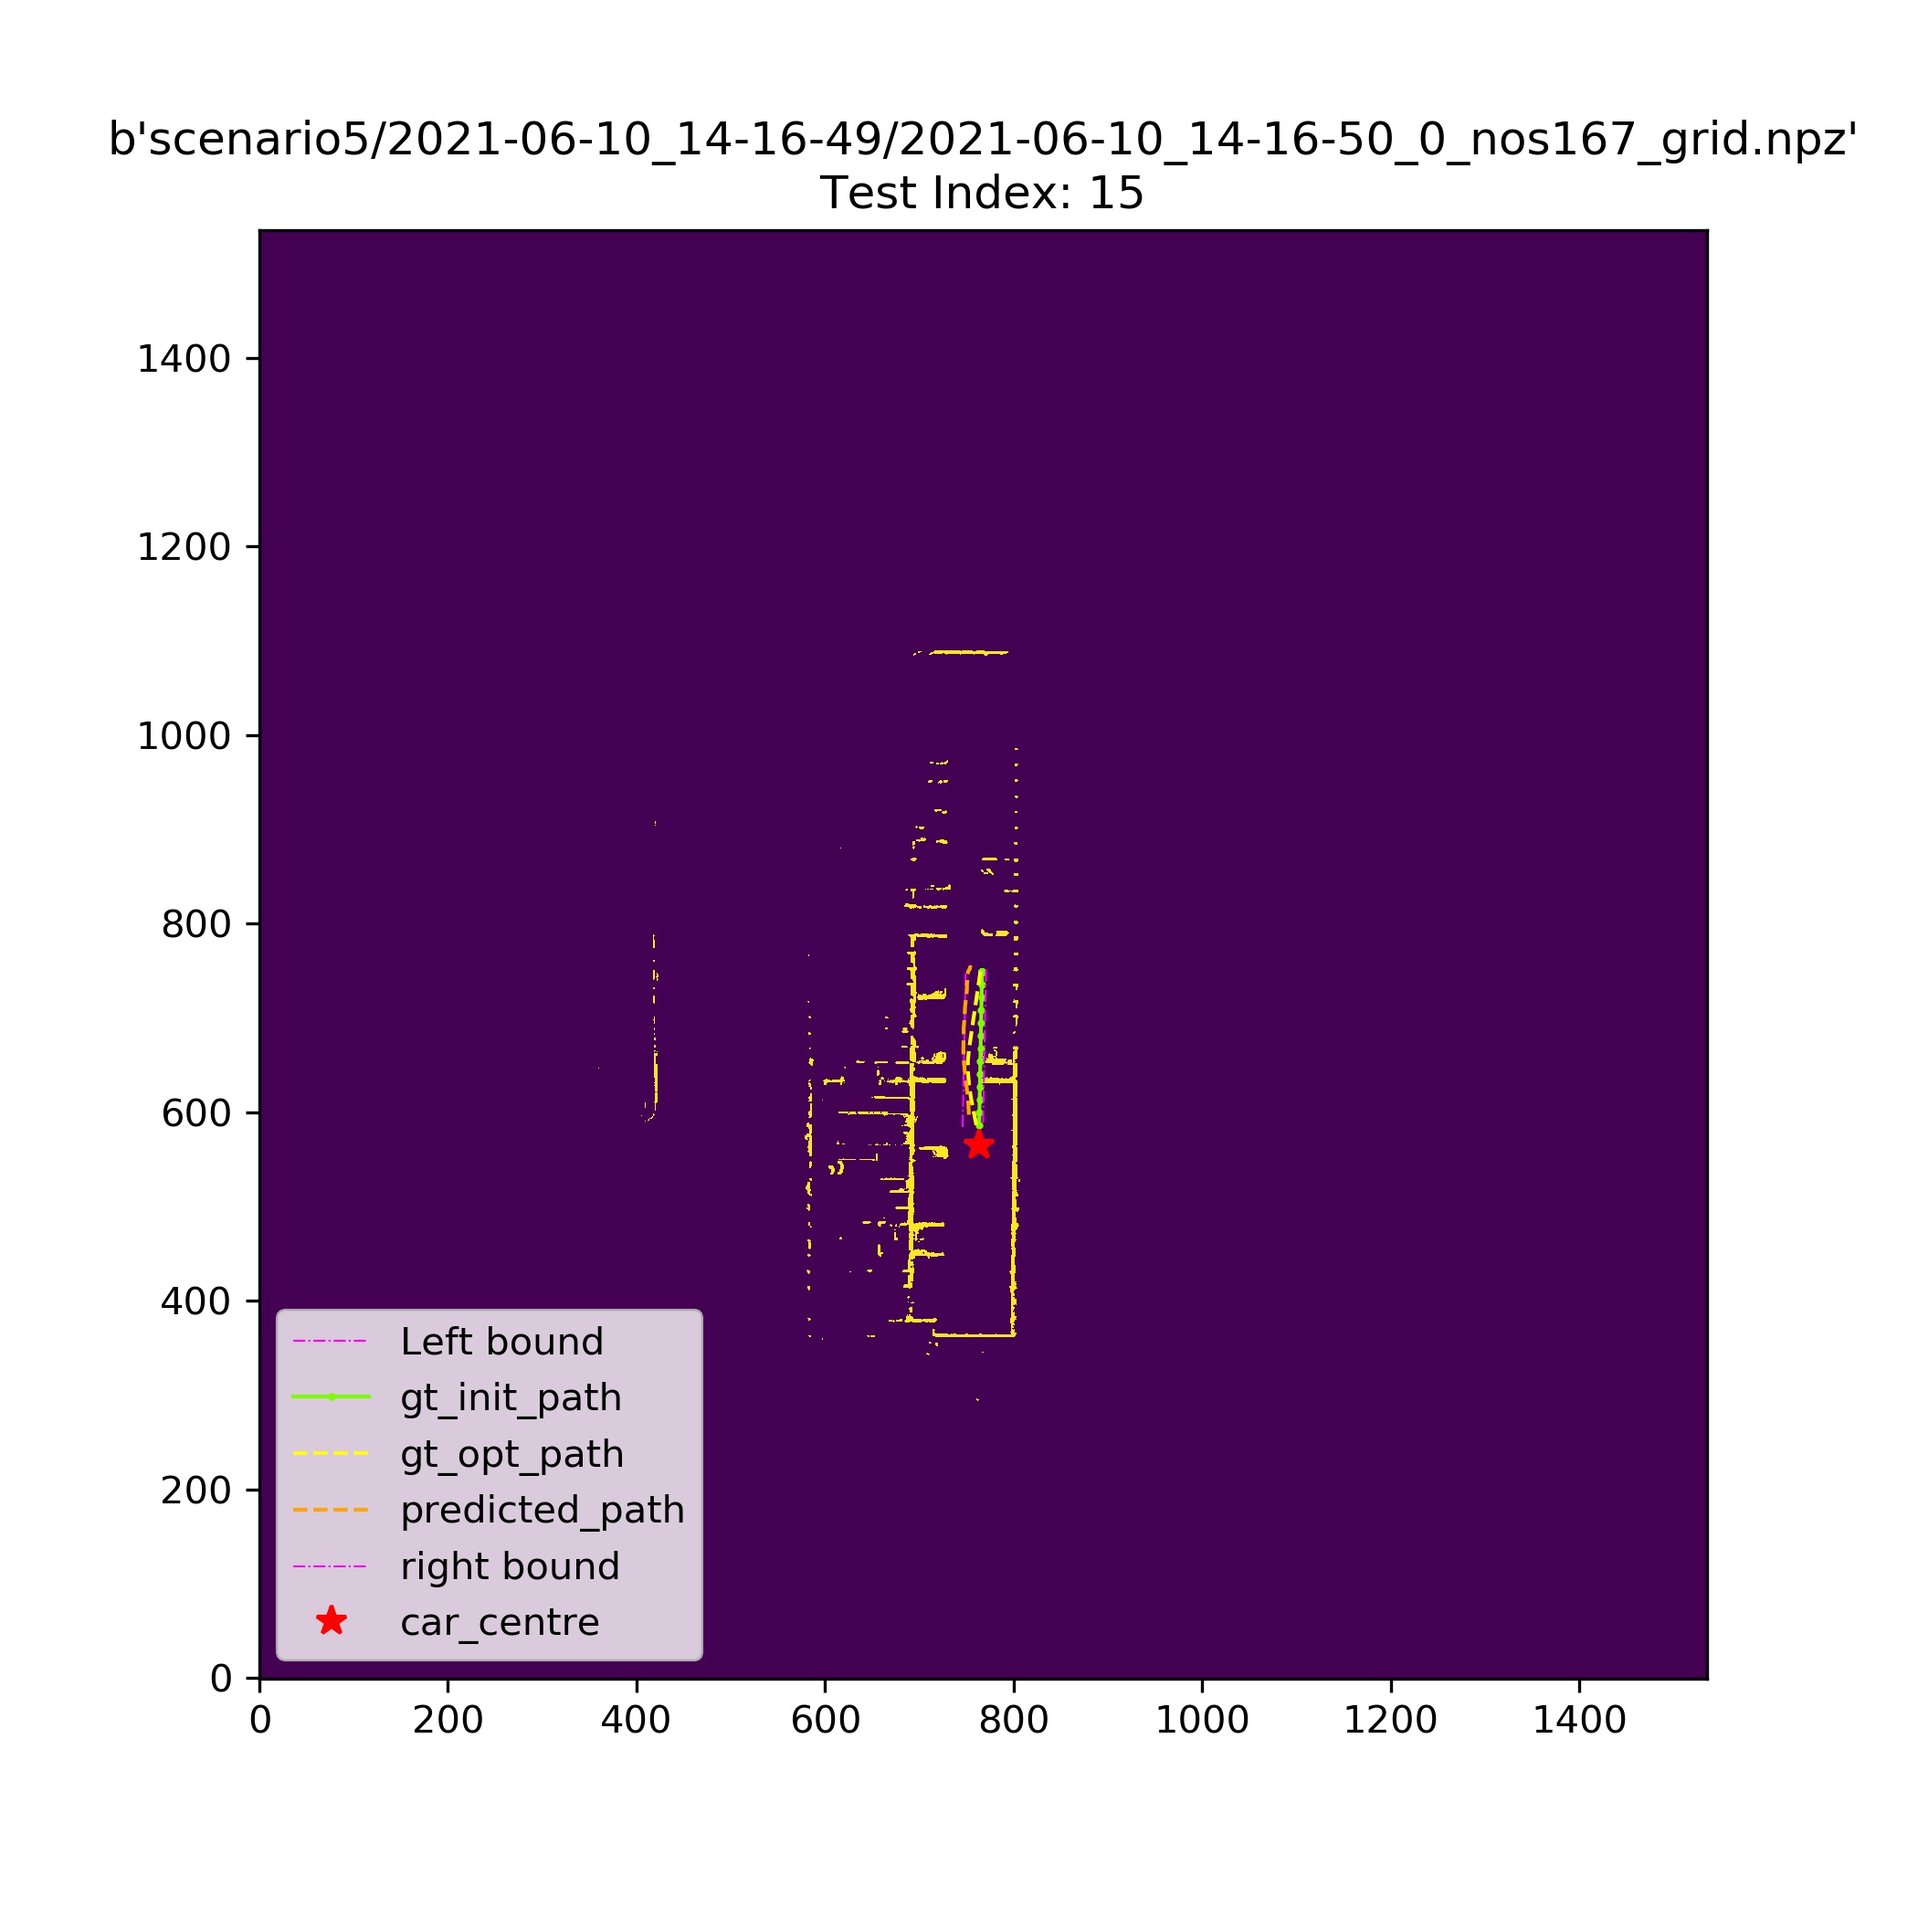
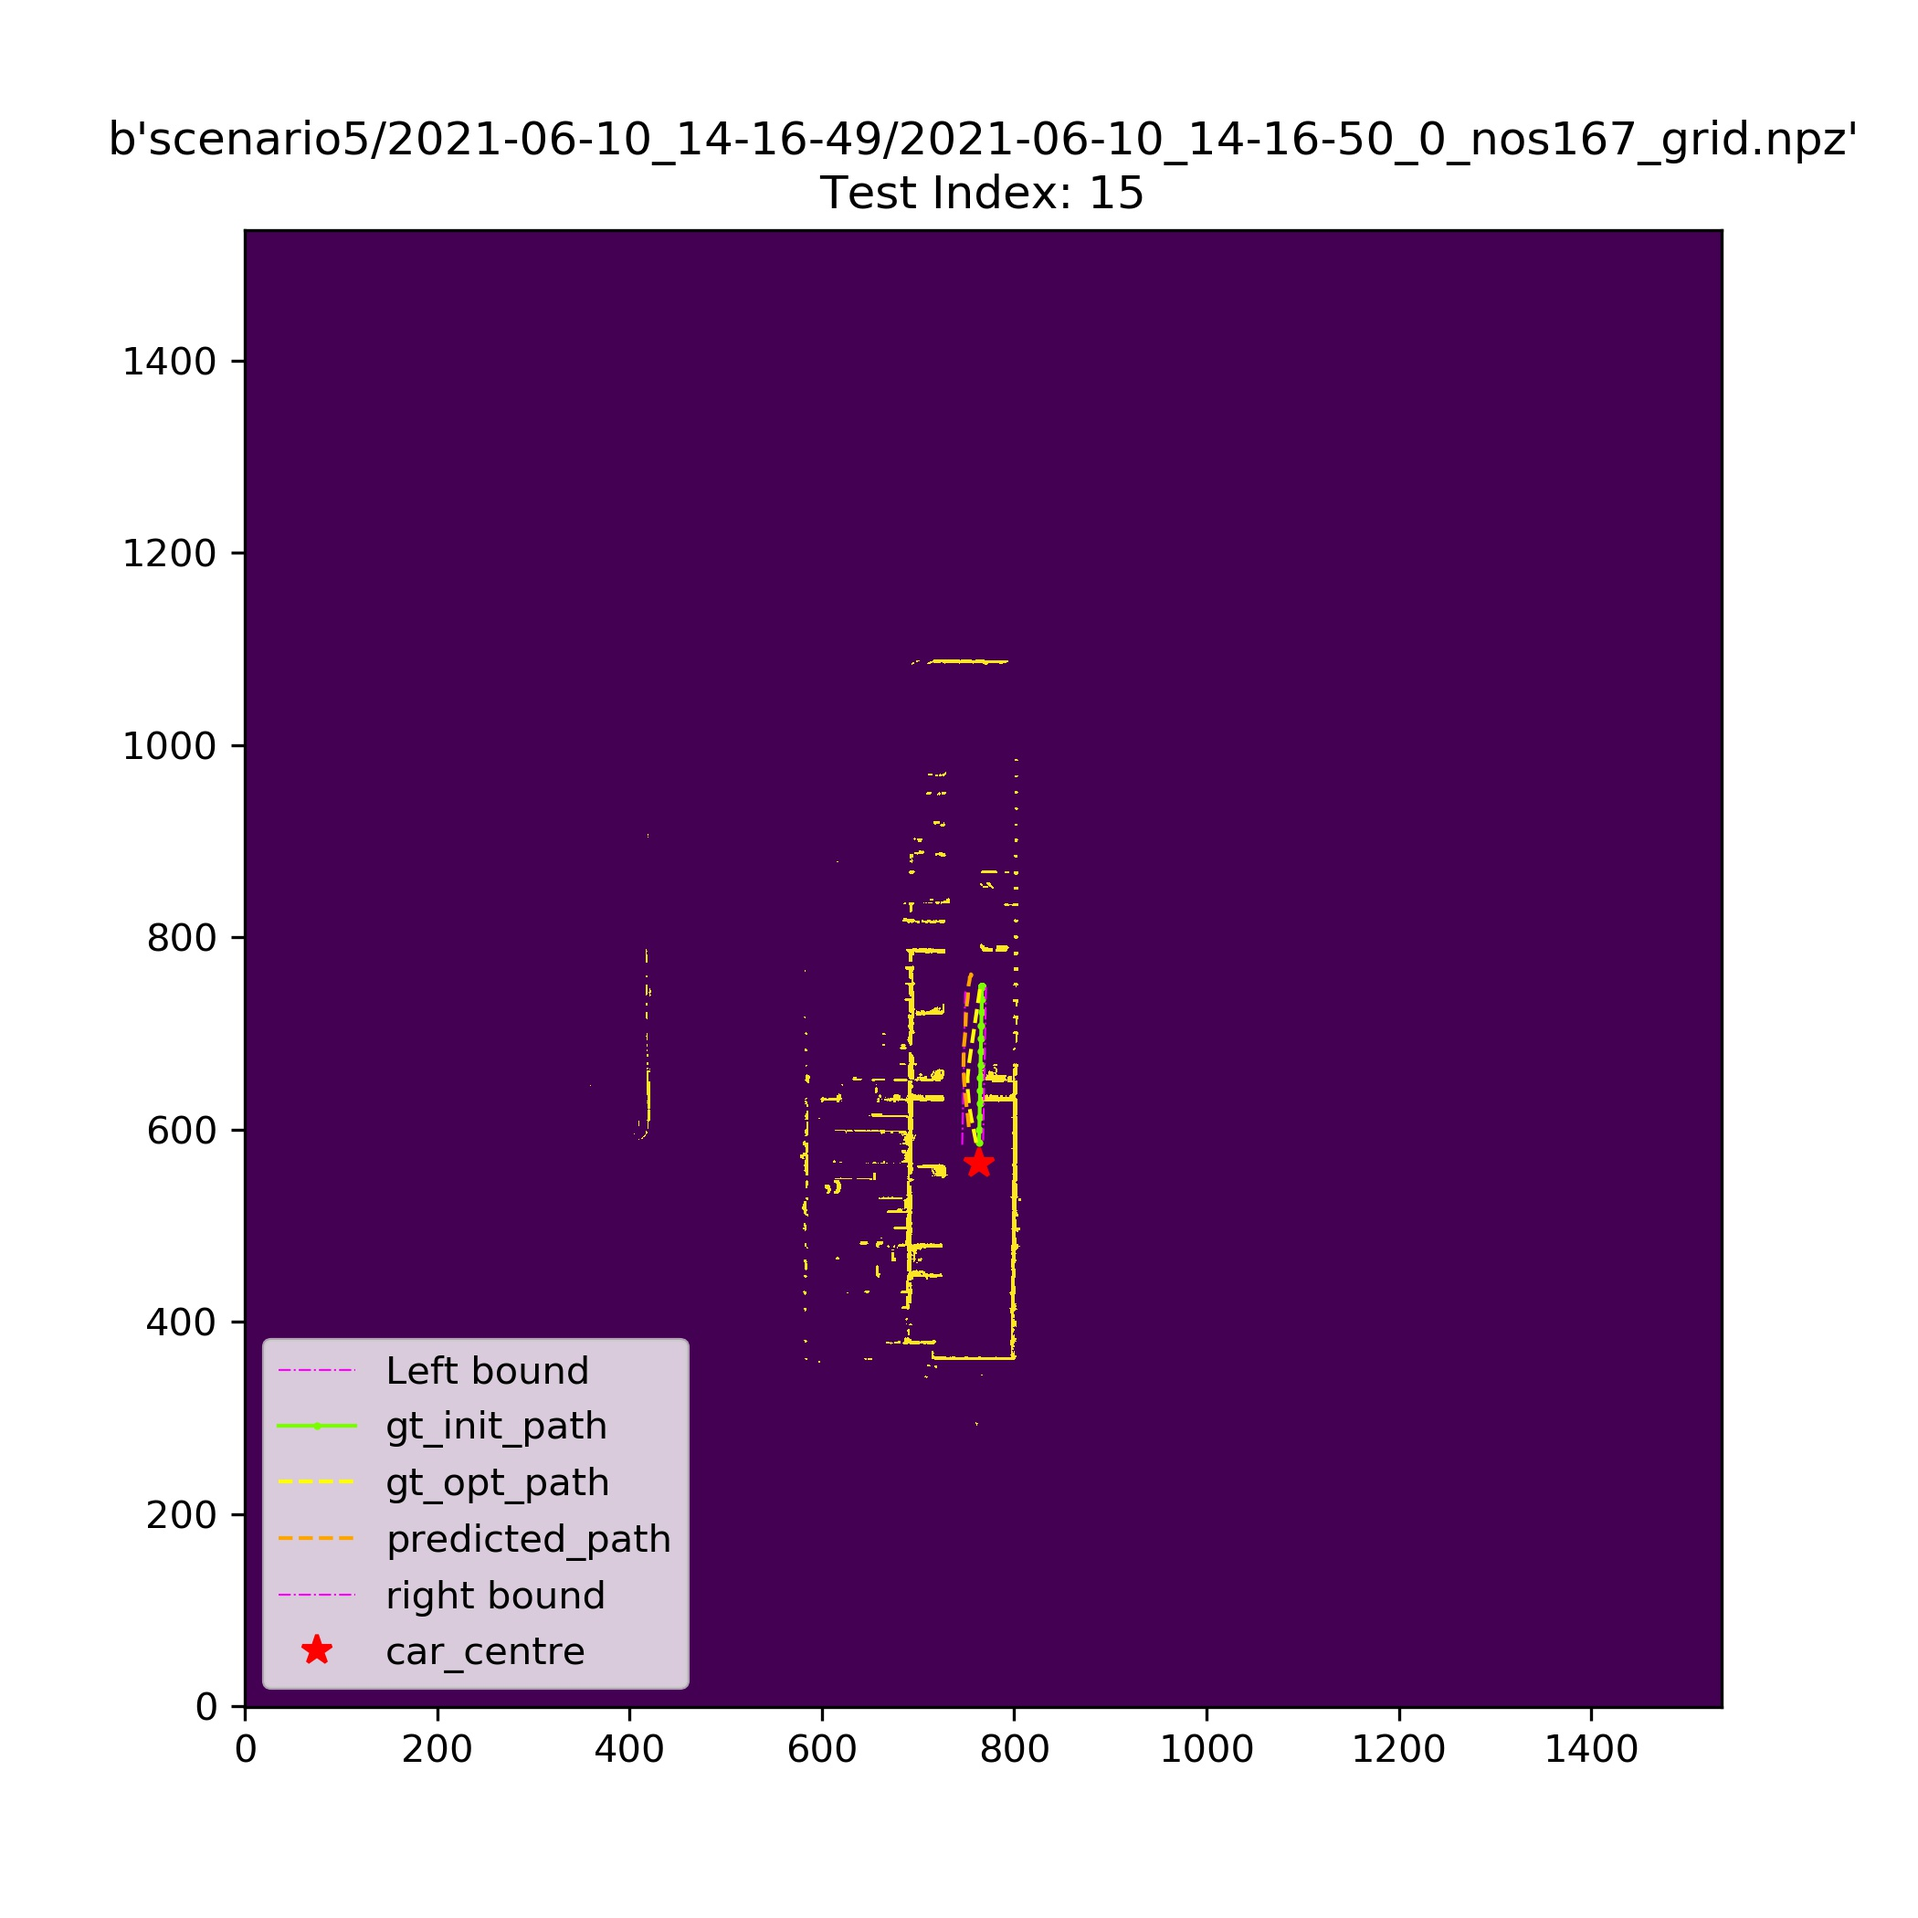
feat:predection plots callback in train

Changed region(s): [[0.0619, 0.1238, 0.8976, 0.9286], [0.4024, 0.4024, 0.5262, 0.7119], [0.4952, 0.3405, 0.5262, 0.3714]]

diff --git a/train.py b/train.py
@@ -4,35 +4,232 @@ from typing import List,Tuple
 from .data_processing.data_loader import dataset_loader
 from matplotlib import pyplot as plt
 import numpy as np
+from numpy import ndarray
+from typing import Dict,List,Union
 from .config import params
 import wandb
 from wandb.keras import WandbCallback
 from .losses import euclidean_distance_loss
 from .models import base_model
+import os
+
+os.environ['CUDA_VISIBLE_DEVICES']="2,3"
 
 
 def _get_optimizer(opt_name:str='adam',lr:float=0.02):
 
     if opt_name=='adam':
-        return tf.keras.optimizers.Adam(learning_rate=0.02)
+        return tf.keras.optimizers.Adam(learning_rate=lr)
     else:
-        return tf.keras.optimizers.Adam(learning_rate=0.02)
+        return tf.keras.optimizers.Adam(learning_rate=lr)
+
+def _get_test_ds_size(ds_test)->int:
+    """get the size of test dataset
+
+    Args:
+        ds_test (tf.data.Dataset): [description]
+
+    Returns:
+        [int]: [Number of Samples inside dataset]
+    """    
+    num_of_samples=0
+    # Looping through all batches in test dataset
+    for input_batch, output_batch in ds_test:
+        #Looping through all samples for a single (current) batch
+        for i in range(0,len(input_batch[0].numpy())):
+            num_of_samples+=1
+    return num_of_samples
+
+def get_np_test_ds(ds_test)->Dict[str,Union[ndarray,List]]:
+    """Test dataset (in tf.data.Dataset build) to numpy arrays
+
+    Args:
+        ds_test ([type]): tf.data.Dataset
+
+    Returns:
+        Dict[str,Union[ndarray,List]]: dictionary of gridmap,grid_org_res,left_bnd,right_bnd,car_odo,init_path,list_tst_file_details,opt_path
+    """ 
+    samples = _get_test_ds_size(ds_test)
+    np_tst_gridmap = np.zeros(shape=(samples,1536,1536))
+    np_tst_grid_org_res = np.zeros(shape=(samples,3))
+    np_tst_left_bnd = np.zeros(shape=(samples,25,2))
+    np_tst_right_bnd = np.zeros(shape=(samples,25,2))
+    np_tst_car_odo = np.zeros(shape=(samples,3))
+    np_tst_init_path = np.zeros(shape=(samples,25,2))
+    np_tst_opt_path = np.zeros(shape=(samples,25,2))
+    list_tst_file_details = []
+
+    j=0
+    for input_batch, output_batch in ds_test:
+        
+        for i in range(0,len(input_batch[0].numpy())):
+            np_tst_gridmap[j]=input_batch[0][i].numpy()
+            np_tst_grid_org_res[j] = input_batch[1][i].numpy()
+            np_tst_left_bnd[j] = input_batch[2][i].numpy()
+            np_tst_right_bnd[j] = input_batch[3][i].numpy()
+            np_tst_car_odo[j] = input_batch[4][i].numpy()
+            np_tst_init_path[j] = input_batch[5][i].numpy()
+            list_tst_file_details.append(input_batch[6][i])
+
+            np_tst_opt_path[j] = output_batch[i].numpy()
+            j=j+1   
+    
+    np_ds_test={
+        "grid_map":np_tst_gridmap,
+        "grid_org_res":np_tst_grid_org_res,
+        "left_bnd":np_tst_left_bnd,
+        "right_bnd":np_tst_right_bnd,
+        "car_odo":np_tst_car_odo,
+        "init_path":np_tst_init_path,
+        "file_details":list_tst_file_details,
+
+        "opt_path":np_tst_opt_path,
+    }
+
+    #np_tst_gridmap,np_tst_grid_org_res,np_tst_left_bnd,np_tst_right_bnd,np_tst_car_odo,np_tst_init_path,list_tst_file_details,np_tst_opt_path
+    return np_ds_test
 
 
+def plot_scene(features):
+
+    grid_map = features["grid_map"]
+    grid_org = features["grid_org_res"] #[x,y,resolution]
+    left_bnd = features["left_bnd"]
+    right_bnd = features["right_bnd"]
+    init_path = features["init_path"]
+    opt_path = features["opt_path"]
+    car_odo = features["car_odo"]
+
+    predict_path = features["predictions"]
+    file_details=features["file_details"]
+
+    #print(type(grid_map))
+    plt.figure(figsize=(7, 7))
+    #ax=fig.add_subplot(1,1,1)
+
+    res = grid_org[2]
+    plt.plot((left_bnd[:,0]-grid_org[0])/res,(left_bnd[:,1]-grid_org[1])/res,'-.', color='magenta',markersize=0.5, linewidth=0.5)
+
+    plt.plot((init_path[:,0]-grid_org[0])/res,(init_path[:,1]-grid_org[1])/res,'o-', color='lawngreen',markersize=1, linewidth=1)
+    plt.plot((opt_path[:,0]-grid_org[0])/res,(opt_path[:,1]-grid_org[1])/res,'--', color='yellow',markersize=1, linewidth=1)
+
+    plt.plot((predict_path[:,0]-grid_org[0])/res,(predict_path[:,1]-grid_org[1])/res,'--', color='orange',markersize=1, linewidth=1)
+
+    plt.plot((right_bnd[:,0]-grid_org[0])/res,(right_bnd[:,1]-grid_org[1])/res, '-.',color='magenta',markersize=0.5, linewidth=0.5)
+
+    plt.plot((car_odo[0]-grid_org[0])/res,(car_odo[1]-grid_org[1])/res,'r*', color = 'red',markersize=8)
+
+
+    plt.legend(['Left bound', 'gt_init_path', 'gt_opt_path','predicted_path','right bound', 'car_centre'], loc='lower left')
+
+    plt.imshow(grid_map,origin="lower")
+
+    #plt.set_title(f"{file_details}\nTest Index: {features['testidx']}")
+    plt.title(f"{file_details}\nTest Index: {features['testidx']}")
+    #save_fig_dir = '/netpool/work/gpu-3/users/malyalasa/New_folder/rosbag2numpy/test_results'
+    #fig.savefig(f"{save_fig_dir}/Test_index_{features['testidx']}.jpg",format='jpg',dpi=300)
+    #print(type(file_details))
+    #return ax,fig
+    return res,plt
+
+class cb_log_pred(tf.keras.callbacks.Callback):
+
+    def __init__(self,ds_test,np_test_dataset:Dict[str,Union[ndarray,List]],test_index:int=15):
+        super(cb_log_pred).__init__()
+        self.np_ds_test=np_test_dataset
+        self.test_idx = test_index
+        self.ds_test=ds_test
+
+        pass
+    
+    def __get_index_data(self,np_ds_test,test_idx):
+        test_data={}
+        test_data["grid_map"]= np_ds_test["grid_map"][test_idx]
+        test_data["grid_org_res"]= np_ds_test["grid_org_res"][test_idx]
+        test_data["left_bnd"]= np_ds_test["left_bnd"][test_idx]
+        test_data["right_bnd"]= np_ds_test["right_bnd"][test_idx]
+        test_data["car_odo"]= np_ds_test["car_odo"][test_idx]
+        test_data["init_path"]= np_ds_test["init_path"][test_idx]
+        test_data["opt_path"]= np_ds_test["opt_path"][test_idx]
+        test_data["file_details"] = np_ds_test["file_details"][test_idx]
+        test_data["testidx"] = test_idx
+
+        test_data["predictions"] = np_ds_test["predictions"][test_idx]
+
+        return test_data
+
+    def __plot_scene(self,features):    
+        grid_map = features["grid_map"]
+        grid_org = features["grid_org_res"] #[x,y,resolution]
+        left_bnd = features["left_bnd"]
+        right_bnd = features["right_bnd"]
+        init_path = features["init_path"]
+        opt_path = features["opt_path"]
+        car_odo = features["car_odo"]
+
+        predict_path = features["predictions"]
+        file_details=features["file_details"]
+
+        #print(type(grid_map))
+        fig=plt.figure(figsize=(7, 7))
+        ax=fig.add_subplot(1,1,1)
+
+        res = grid_org[2]
+        ax.plot((left_bnd[:,0]-grid_org[0])/res,(left_bnd[:,1]-grid_org[1])/res,'-.', color='magenta',markersize=0.5, linewidth=0.5)
+
+        ax.plot((init_path[:,0]-grid_org[0])/res,(init_path[:,1]-grid_org[1])/res,'o-', color='lawngreen',markersize=1, linewidth=1)
+        ax.plot((opt_path[:,0]-grid_org[0])/res,(opt_path[:,1]-grid_org[1])/res,'--', color='yellow',markersize=1, linewidth=1)
+
+        ax.plot((predict_path[:,0]-grid_org[0])/res,(predict_path[:,1]-grid_org[1])/res,'--', color='orange',markersize=1, linewidth=1)
+
+        ax.plot((right_bnd[:,0]-grid_org[0])/res,(right_bnd[:,1]-grid_org[1])/res, '-.',color='magenta',markersize=0.5, linewidth=0.5)
+
+        ax.plot((car_odo[0]-grid_org[0])/res,(car_odo[1]-grid_org[1])/res,'r*', color = 'red',markersize=8)
+
+
+        ax.legend(['Left bound', 'gt_init_path', 'gt_opt_path','predicted_path','right bound', 'car_centre'], loc='lower left')
+
+        ax.imshow(grid_map,origin="lower")
+
+        ax.set_title(f"{file_details}\nTest Index: {features['testidx']}")
+        save_fig_dir = '/netpool/work/gpu-3/users/malyalasa/New_folder/rosbag2numpy/test_results'
+        fig.savefig(f"{save_fig_dir}/Test_index_{features['testidx']}.jpg",format='jpg',dpi=300)
+        print(type(file_details))
+
+        return ax,fig
+
+    def on_epoch_end(self, epoch, logs):
+        print("Predicting after epoch")
+        np_predictions=self.model.predict(self.ds_test)
+        self.np_ds_test["predictions"]=np_predictions
+        sample_data = self.__get_index_data(np_ds_test=self.np_ds_test,
+                                                test_idx=self.test_idx)
+        
+        _,sample_fig= self.__plot_scene(features=sample_data)
+
+        if epoch%2==0:
+            wandb.log({f"sample_img_{epoch}":sample_fig})
+
+        return super().on_epoch_end(epoch, logs=logs)
 
 if __name__=='__main__':
     wandb.init(project="ppmodel_base",config=params)
 
-    ds_loader = dataset_loader(tfrec_dir=params.get("dataset_dir"),batch_size=params.get("H_BATCH_SIZE"))
+    #Load dataset
+    ds_loader = dataset_loader(tfrec_dir=params.get("dataset_dir"),batch_size=params.get("H_BATCH_SIZE"),shuffle_buffer=params["H_SHUFFLE_BUFFER"])
     ds_train,ds_valid,ds_test= ds_loader.build_dataset()
+    np_ds_test = get_np_test_ds(ds_test=ds_test)
 
+    #Build and compile model
     pp_model = base_model.nn()
     opt = _get_optimizer(params.get("optimizer"),lr=params.get("lr"))
     pp_model.compile(optimizer=opt,loss=euclidean_distance_loss, metrics=params.get("metric"))
     cb_reduce_lr = tf.keras.callbacks.ReduceLROnPlateau(monitor='val_loss', factor=0.2,
                               patience=4, min_lr=0.0001)
     
-    
-    history = pp_model.fit(ds_train,epochs=50,validation_data=ds_valid, callbacks=[cb_reduce_lr,WandbCallback()])
+    #Model training
+    history = pp_model.fit(ds_train,epochs=50,validation_data=ds_valid, 
+                callbacks=[cb_reduce_lr,WandbCallback(),
+                cb_log_pred(ds_test=ds_test,np_test_dataset=np_ds_test)])
 
-    test_loss,test_accuracy = pp_model.evaluate(ds_test)
+    #test_loss,test_accuracy = pp_model.evaluate(ds_test)
